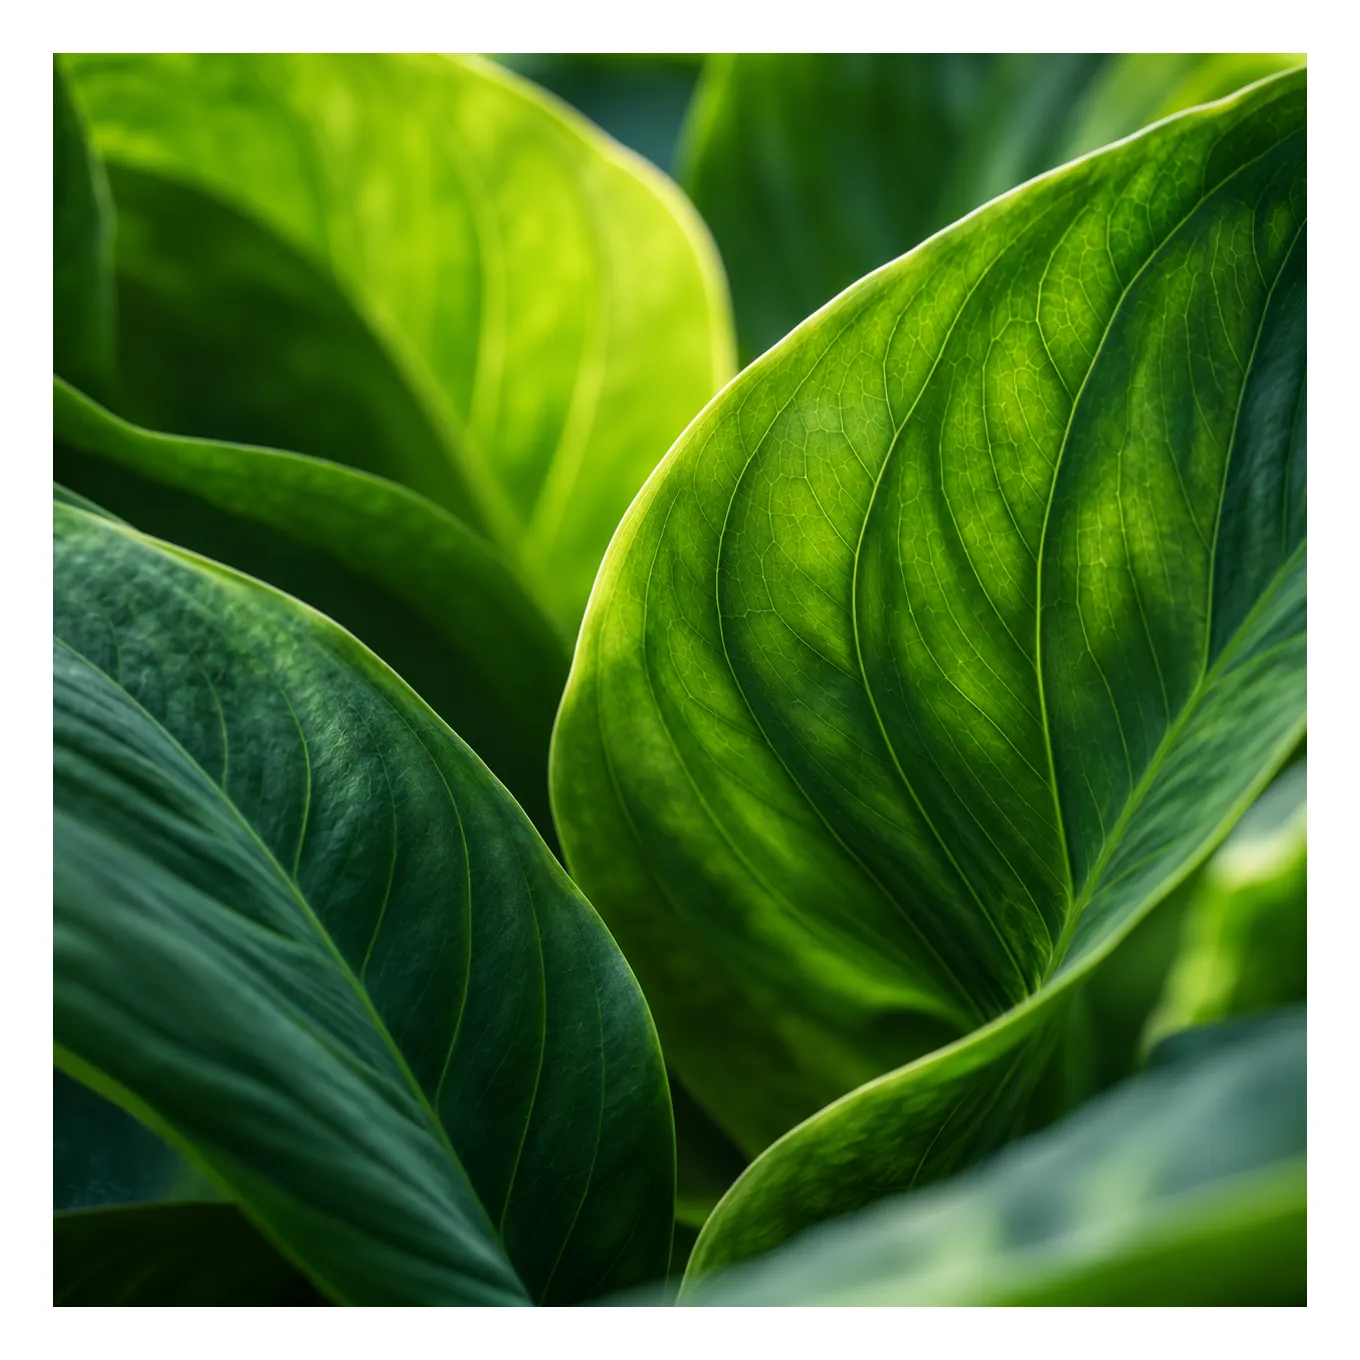
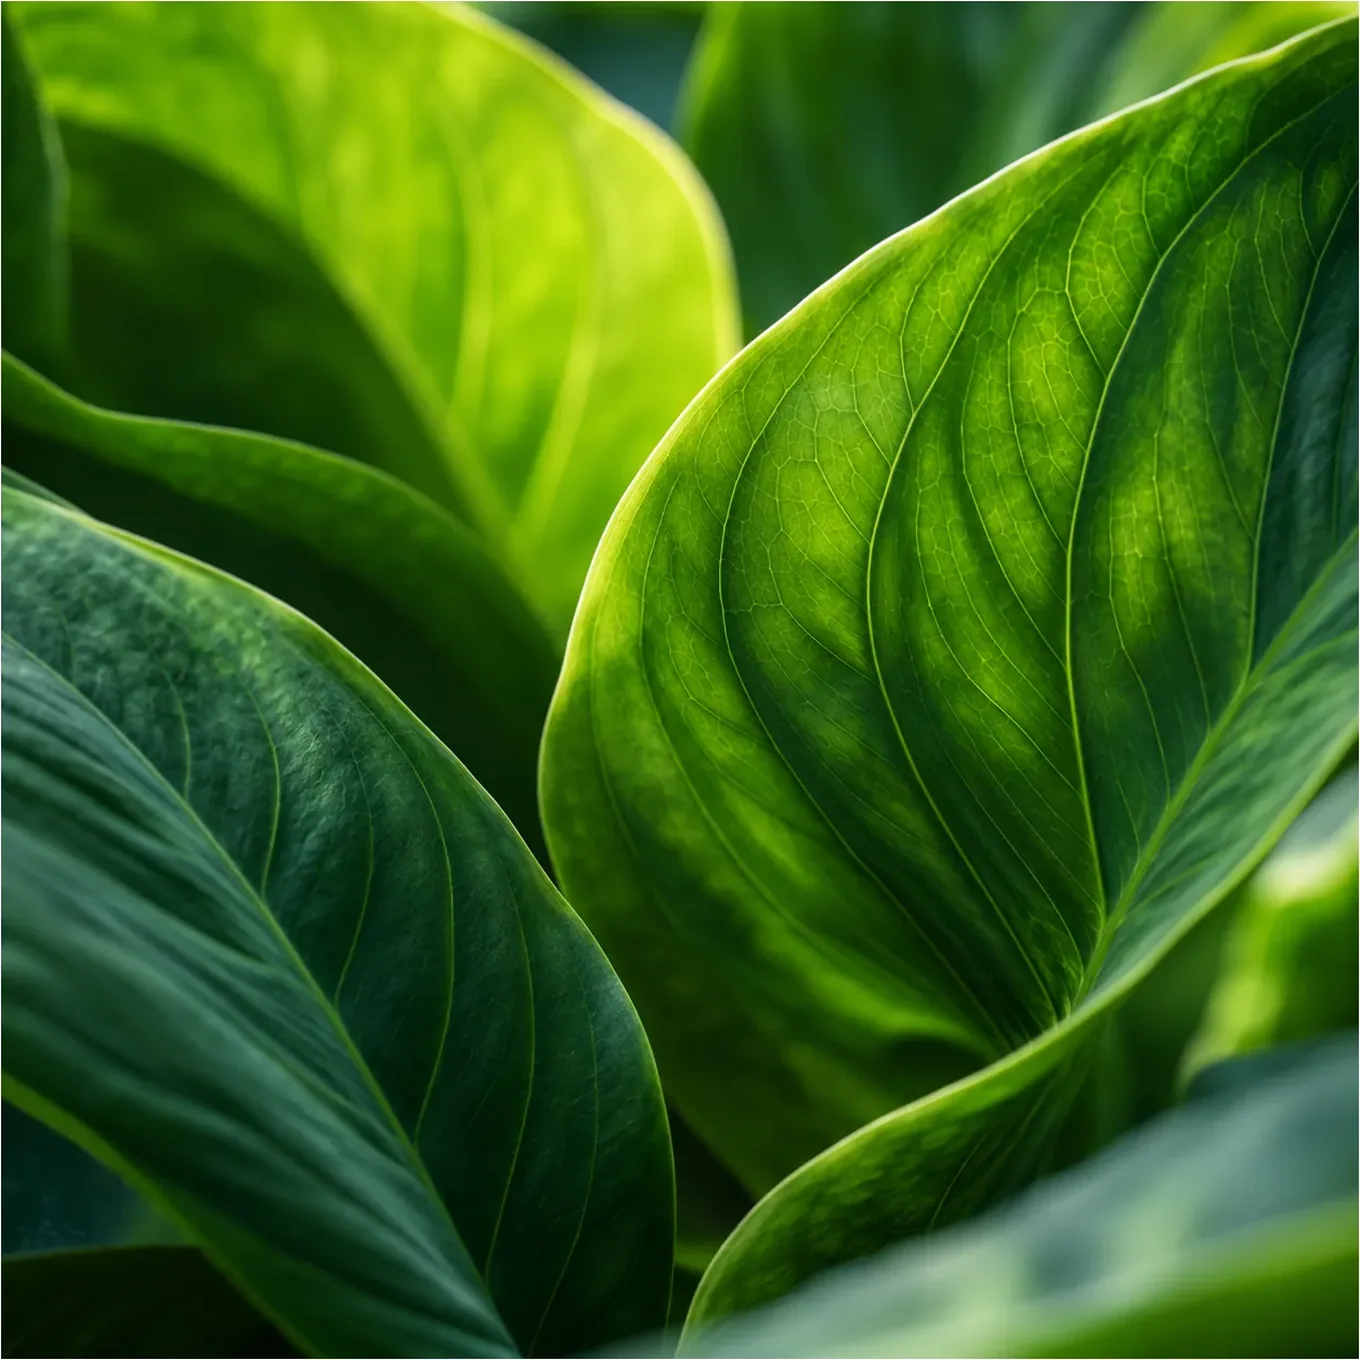
Refresh product and Labs visuals

diff --git a/assets/site-updates-2026-09-29.js b/assets/site-updates-2026-09-29.js
@@ -18,6 +18,75 @@
     });
   };
 
+  const roundImage = (image, radius = "12px") => {
+    if (!image) return;
+    image.style.borderRadius = radius;
+    image.style.overflow = "hidden";
+    image.style.display = "block";
+    const frame = image.parentElement;
+    if (frame) {
+      frame.style.borderRadius = radius;
+      frame.style.overflow = "hidden";
+    }
+  };
+
+  const decorateAgentAcademy = () => {
+    const main = document.querySelector("main");
+    if (!main) return;
+    main.classList.add("yaju-agent-academy-new");
+
+    const hero = main.querySelector("section");
+    const heading = hero?.querySelector("h1");
+    if (heading && !hero.querySelector("[data-academy-kicker]")) {
+      const kicker = document.createElement("p");
+      kicker.dataset.academyKicker = "true";
+      kicker.textContent = "AGENT ACADEMY";
+      kicker.style.cssText = "margin:0 0 18px;color:#ffb38b;font-size:12px;font-weight:600;letter-spacing:.14em;";
+      heading.before(kicker);
+    }
+
+    if (hero && !main.querySelector("[data-academy-overview]")) {
+      const overview = document.createElement("section");
+      overview.dataset.academyOverview = "true";
+      overview.className = "academy-overview";
+      overview.innerHTML = `
+        <div><strong>8</strong><span>Progressive modules</span></div>
+        <div><strong>0</strong><span>Prior experience required</span></div>
+        <div><strong>1</strong><span>Production-ready foundation</span></div>`;
+      hero.insertAdjacentElement("afterend", overview);
+    }
+
+    main.querySelectorAll("[id^='module-']").forEach((module, index) => {
+      module.classList.add("academy-module-card");
+      module.dataset.academyTone = String(index % 3);
+    });
+
+    if (!document.getElementById("yaju-agent-academy-styles")) {
+      const style = document.createElement("style");
+      style.id = "yaju-agent-academy-styles";
+      style.textContent = `
+        .yaju-agent-academy-new > section:first-of-type { min-height: min(760px, 86vh); }
+        .yaju-agent-academy-new > section:first-of-type video { border: 0 !important; border-radius: 18px !important; box-shadow: 0 24px 70px rgba(0,0,0,.28); }
+        .academy-overview { display:grid; grid-template-columns:repeat(3,minmax(0,1fr)); gap:1px; margin:0; padding:0 3rem; background:#d9d8d2; }
+        .academy-overview > div { display:flex; flex-direction:column; gap:8px; padding:42px 32px; background:#f4f3ee; }
+        .academy-overview strong { font-size:clamp(34px,4vw,64px); font-weight:400; line-height:1; color:#181818; }
+        .academy-overview span { color:#565650; font-size:14px; }
+        .academy-module-card { margin-bottom:28px !important; padding:clamp(28px,5vw,64px) !important; border-radius:24px; overflow:hidden; }
+        .academy-module-card[data-academy-tone='0'] { background:#f3f1ec; }
+        .academy-module-card[data-academy-tone='1'] { background:#eef0f8; }
+        .academy-module-card[data-academy-tone='2'] { background:#f6eee9; }
+        .academy-module-card h5 { font-size:clamp(28px,4vw,52px) !important; line-height:1.05 !important; margin-bottom:28px !important; }
+        .academy-module-card p { max-width:780px; font-size:clamp(15px,1.3vw,18px) !important; line-height:1.65 !important; }
+        @media (max-width: 767px) {
+          .academy-overview { grid-template-columns:1fr; padding:0 20px; }
+          .academy-overview > div { padding:28px 24px; }
+          .academy-module-card { border-radius:16px; }
+        }
+      `;
+      document.head.append(style);
+    }
+  };
+
   const patchNavigation = () => {
     document.querySelectorAll("nav a[href='/blog/the-future-of-work-debate-has-an-evidence-problem']").forEach((link) => {
       link.setAttribute("href", "/labs/agentic-task-ecosystem");
@@ -59,16 +128,77 @@
       });
     }
 
+    if (path === "/agent-orchestration-system") {
+      replaceImage("0b97b9fbc86c4f1cda95b0a8584bbf2576939e1d", "/assets/img/yaju-aos-observability-1360x1360.webp");
+      replaceImage("2059b2728fb8289dfacf59866ac72a390de60f31", "/assets/img/yaju-aos-governance-1360x1360.webp");
+      replaceImage("0f12a1345518269524f8a63b60d5561a8179ed1c", "/assets/img/yaju-aos-token-monitoring-1360x1360.webp");
+    }
+
+    if (path === "/ai-governance") {
+      replaceImage("2484012ebc7edefa6a7f2bcd0dfea81529569d38", "/assets/img/yaju-governance-encryption-1128x1128.webp");
+    }
+
+    if (path === "/mcp-gateway") {
+      replaceImage("dcd7b076c1e919ec24e90fad1f112fd295cb3d72", "/assets/img/yaju-mcp-policy-1128x1128.webp");
+    }
+
+    if (path === "/ai-spend-explorer") {
+      const video = document.querySelector("main video[src*='jQkiowhjcNANEVOdEj02JRdSnvM5TaFudLXF9BmyAVms']");
+      if (video) {
+        video.style.width = "100%";
+        video.style.height = "auto";
+        video.style.aspectRatio = "1280 / 142";
+        video.style.objectFit = "contain";
+        video.style.background = "#080808";
+        if (video.parentElement) {
+          video.parentElement.style.height = "auto";
+          video.parentElement.style.aspectRatio = "1280 / 142";
+          video.parentElement.style.overflow = "hidden";
+        }
+      }
+    }
+
+    if (path === "/labs") {
+      const heading = [...document.querySelectorAll("main h1, main h2, main h3, main h4, main h5")]
+        .find((element) => text(element) === "Agent Orchestration System");
+      let block = heading?.parentElement;
+      while (block && !block.querySelector("a") && block !== document.querySelector("main")) block = block.parentElement;
+      block?.querySelectorAll("a").forEach((link) => {
+        if (text(link).startsWith("Learn more")) link.setAttribute("href", "/agent-orchestration-system");
+      });
+    }
+
+    if (path === "/agent-academy") decorateAgentAcademy();
+
+    if (path === "/labs/futures-of-work") {
+      document.querySelectorAll("main a[href='/labs/agentic-task-ecosystem']").forEach((link) => {
+        const icon = [...link.childNodes].find((node) => node.nodeType === Node.TEXT_NODE && node.nodeValue.includes("\ue906"));
+        [...link.childNodes].filter((node) => node.nodeType === Node.TEXT_NODE).forEach((node, index) => {
+          node.nodeValue = index === 0 ? "Agentic task ecosystem" : node === icon ? " \ue906" : "";
+        });
+        if (!text(link).includes("Agentic task ecosystem")) link.textContent = "Agentic task ecosystem";
+      });
+    }
+
+    if (path === "/careers") {
+      replaceImage("d524475e79935fad07549fff10f04c691e767e8e", "/assets/img/yaju-careers-hero-882x1120.webp");
+      replaceImage("9f29f16467315f73ca9f9bf907912ea863a6fbdf", "/assets/img/yaju-careers-benefits-1360x1360.webp");
+      replaceImage("f8f7d91a4c9b8f5314f4ea32e450b342eef330c9", "/assets/img/yaju-careers-culture-1360x1360.webp");
+      replaceImage("656842f6e08943f18a31d4c34b19ce585ffc878b", "/assets/img/yaju-careers-working-1360x1360.webp");
+    }
+
     if (path === "/labs/agentic-task-ecosystem") {
       removeMainLinks(["Explore the dataset", "Explore the dataset \ue906", "Read the paper"]);
       document.querySelectorAll("main a[href*='arxiv.org/abs/2606.23633']").forEach((link) => link.remove());
       replaceImage("e15da69ed56ce38c19dbeb973c8519b608a1e5b2", "/assets/img/yaju-agentic-ecosystem-tools-1240x960.webp");
       replaceImage("f918f98041abac6ae82f7268a5f318bd7c261e2c", "/assets/img/yaju-agentic-task-change-1240x960.webp");
       replaceImage("01f98af8945a1ca93ecce135b3c1b56bd8c5a870", "/assets/img/yaju-agentic-insights-1240x960.webp");
+      document.querySelectorAll("main img[src*='yaju-agentic-']").forEach((image) => roundImage(image));
     }
 
     if (path === "/labs/scholars") {
       replaceImage("4c9c873cbc2ad78cb29033278777bb9e756c1563", "/assets/img/yaju-scholars-about-1781x1188.webp");
+      roundImage(document.querySelector("main img[src*='yaju-scholars-about-1781x1188']"));
     }
 
     if (path === "/labs/oran") {
@@ -87,6 +217,7 @@
       });
       replaceImage("4b6f490691387c242802b7eb7d3700c89e743998", "/assets/img/yaju-oran-32-leaves-1360x1360.webp");
       replaceImage("aa9c84494d51421effc5ffd145bf2454242dea9c", "/assets/img/yaju-oran-earlier-leaves-1360x1360.webp");
+      document.querySelectorAll("main img[src*='yaju-oran-']").forEach((image) => roundImage(image));
     }
 
     if (path === "/labs/open-development") {
